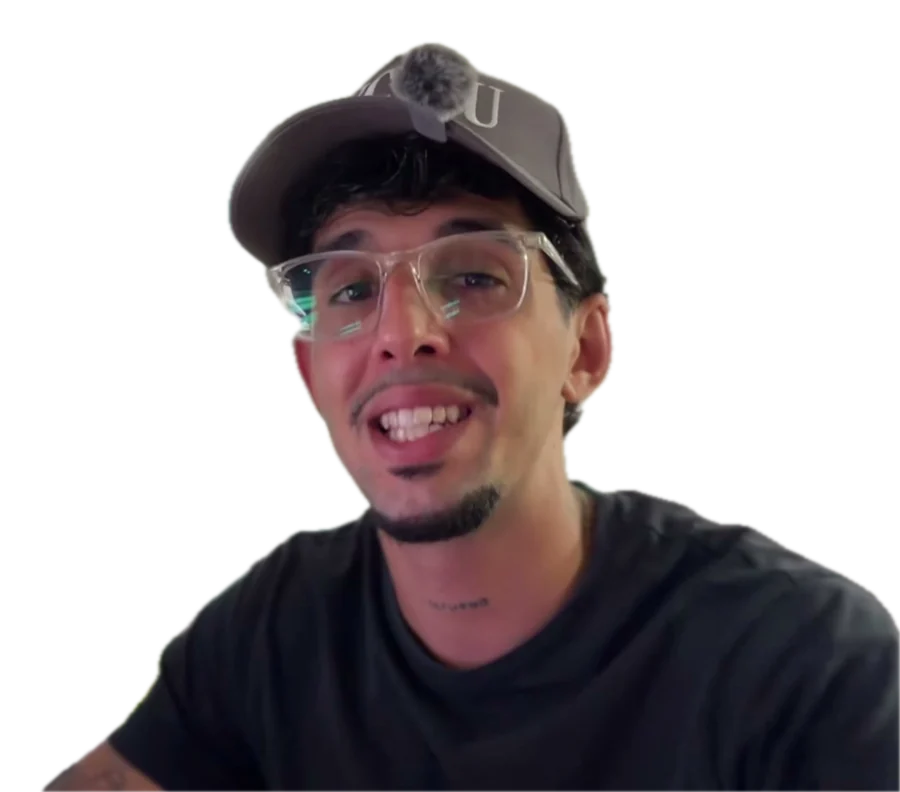
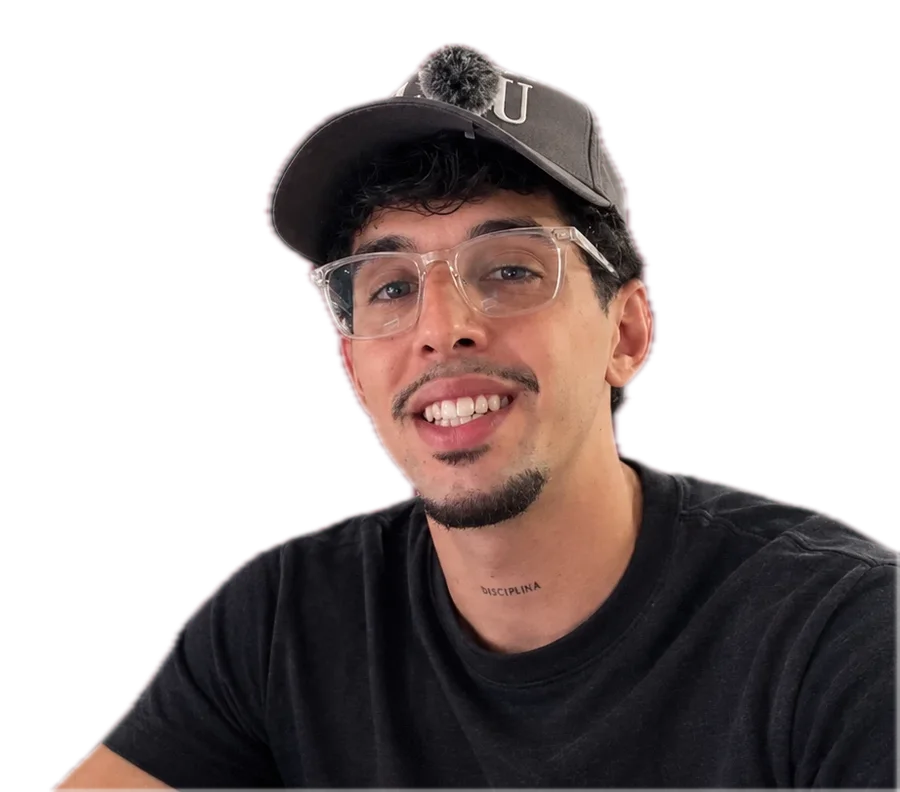
Bio de s4sf.net: nueva foto de Alex sin fondo en el héroe «skool»
La de la portada de HELM Academy, recortada en local (Vision de macOS), con
el borde encogido 2 px para quitar el halo claro del diseño original y el
mismo encuadre (900×792). ?v=2 para que no se vea la vieja de caché.

diff --git a/src/pages/Clase.jsx b/src/pages/Clase.jsx
@@ -68,7 +68,7 @@ export default function Clase() {
                 de «skool», como en una portada de estudio. */}
             <img
               className="bio-foto"
-              src="/inicio/alex-sinfondo.webp"
+              src="/inicio/alex-sinfondo.webp?v=2"
               alt=""
               width="900" height="792"
               fetchPriority="high"
